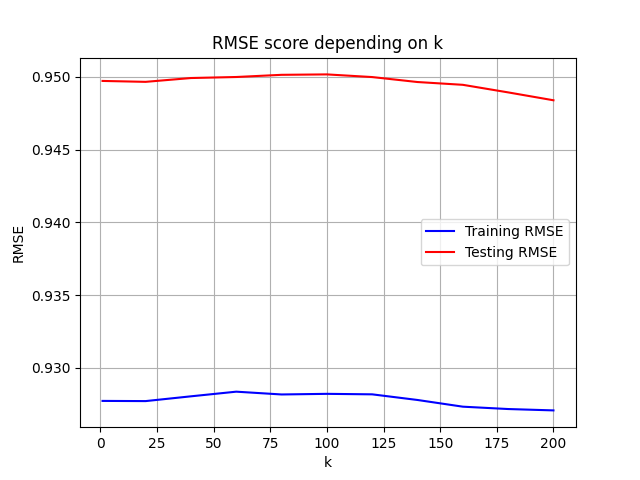
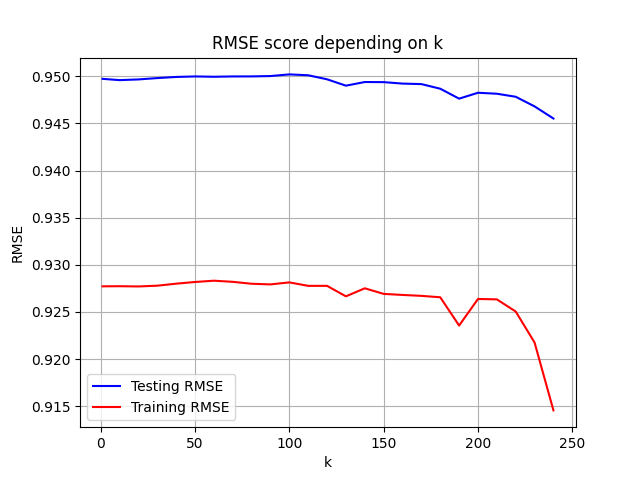
Adding the report and some plots

diff --git a/main.py b/main.py
@@ -28,7 +28,8 @@ R_isnan = np.isnan(data_test)        # R_isnan contains an array of shape R.shap
 T_test = np.argwhere(R_isnan == False)    # T contains a list of list containing the indices where R is NOT NaN
 
 # List for plots:
-k_values = [1, 20, 40, 60, 80, 100, 120, 140, 160, 180, 200]
+k_values = [10*i for i in range(25)]
+k_values[0] = 1
 #k_values = [1,1,1,1,1, 20,20,20,20,20, 40,40,40,40,40, 60,60,60,60,60, 80,80,80,80,80, 100,100,100,100,100, 120,120,120,120,120, 140,140,140,140,140, 160,160,160,160,160, 180,180,180,180,180, 200,200,200,200,200]
 lmbda=1
 mu=0.5
@@ -58,31 +59,31 @@ for k in k_values:
     time_values.append(end_time-start_time)
     print("Training time =", time_values[-1], "s")
     
-    uniform_random_RMSE = 0
-    uniform_random_accuracy = 0
-    gaussian_random_RMSE = 0
-    gaussian_random_accuracy = 0
-    for seed in range(5):
-        uniform_random_method = MF.matrix_factorisation(k=k, m=m, n=n, random_uniform=True, seed=seed)
-        uniform_random_method.train_ALS(data_train, lmbda=lmbda, mu=mu)
-        uniform_prediction_random = uniform_random_method.predict(round=True)
-        uniform_random_RMSE += metric.RMSE(data_test, uniform_prediction_random, T_test)
-        uniform_random_accuracy += metric.accuracy(data_test, uniform_prediction_random, T_test)
+    # uniform_random_RMSE = 0
+    # uniform_random_accuracy = 0
+    # gaussian_random_RMSE = 0
+    # gaussian_random_accuracy = 0
+    # for seed in range(5):
+    #     uniform_random_method = MF.matrix_factorisation(k=k, m=m, n=n, random_uniform=True, seed=seed)
+    #     uniform_random_method.train_ALS(data_train, lmbda=lmbda, mu=mu)
+    #     uniform_prediction_random = uniform_random_method.predict(round=True)
+    #     uniform_random_RMSE += metric.RMSE(data_test, uniform_prediction_random, T_test)
+    #     uniform_random_accuracy += metric.accuracy(data_test, uniform_prediction_random, T_test)
 
-        gaussian_random_method = MF.matrix_factorisation(k=k, m=m, n=n, random_gaussian=True, seed=seed)
-        gaussian_random_method.train_ALS(data_train, lmbda=lmbda, mu=mu)
-        gaussian_prediction_random = gaussian_random_method.predict(round=True)
-        gaussian_random_RMSE += metric.RMSE(data_test, gaussian_prediction_random, T_test)
-        gaussian_random_accuracy += metric.accuracy(data_test, gaussian_prediction_random, T_test)
+    #     gaussian_random_method = MF.matrix_factorisation(k=k, m=m, n=n, random_gaussian=True, seed=seed)
+    #     gaussian_random_method.train_ALS(data_train, lmbda=lmbda, mu=mu)
+    #     gaussian_prediction_random = gaussian_random_method.predict(round=True)
+    #     gaussian_random_RMSE += metric.RMSE(data_test, gaussian_prediction_random, T_test)
+    #     gaussian_random_accuracy += metric.accuracy(data_test, gaussian_prediction_random, T_test)
 
-    uniform_RMSE_values_test.append(uniform_random_RMSE/5)
-    uniform_accuracy_values_test.append(uniform_random_accuracy/5)
-    gaussian_RMSE_values_test.append(gaussian_random_RMSE/5)
-    gaussian_accuracy_values_test.append(gaussian_random_accuracy/5)
+    # uniform_RMSE_values_test.append(uniform_random_RMSE/5)
+    # uniform_accuracy_values_test.append(uniform_random_accuracy/5)
+    # gaussian_RMSE_values_test.append(gaussian_random_RMSE/5)
+    # gaussian_accuracy_values_test.append(gaussian_random_accuracy/5)
 
     prediction = method.predict(round=True)
-   #RMSE_values_train.append(metric.RMSE(data_train, prediction, T_train))
-   #accuracy_values_train.append(metric.accuracy(data_train, prediction, T_train))
+    RMSE_values_train.append(metric.RMSE(data_train, prediction, T_train))
+    accuracy_values_train.append(metric.accuracy(data_train, prediction, T_train))
     RMSE_values_test.append(metric.RMSE(data_test, prediction, T_test))
     accuracy_values_test.append(metric.accuracy(data_test, prediction, T_test))
     print("Score RMSE test =", RMSE_values_test[-1])
@@ -103,8 +104,9 @@ for k in k_values:
 #plt.show()
 
 plt.plot(k_values, RMSE_values_test, label="Testing RMSE", color='b')
-plt.plot(k_values, uniform_RMSE_values_test, label="Testing uniform init RMSE", color='g')
-plt.plot(k_values, gaussian_RMSE_values_test, label="Testing gaussian init RMSE", color='r')
+plt.plot(k_values, RMSE_values_train, label="Training RMSE", color='r')
+# plt.plot(k_values, uniform_RMSE_values_test, label="Testing uniform init RMSE", color='g')
+# plt.plot(k_values, gaussian_RMSE_values_test, label="Testing gaussian init RMSE", color='r')
 plt.title("RMSE score depending on k")
 plt.xlabel("k")
 plt.ylabel("RMSE")
@@ -126,8 +128,9 @@ plt.show()
 
 
 plt.plot(k_values, accuracy_values_test, label="Testing accuracy", color='b')
-plt.plot(k_values, uniform_accuracy_values_test, label="Testing uniform init accuracy", color='g')
-plt.plot(k_values, gaussian_accuracy_values_test, label="Testing gaussian init accuracy", color='r')
+plt.plot(k_values, accuracy_values_train, label="Training accuracy", color='r')
+# plt.plot(k_values, uniform_accuracy_values_test, label="Testing uniform init accuracy", color='g')
+# plt.plot(k_values, gaussian_accuracy_values_test, label="Testing gaussian init accuracy", color='r')
 plt.title("Accuracy score depending on k")
 plt.xlabel("k")
 plt.ylabel("accuracy")
